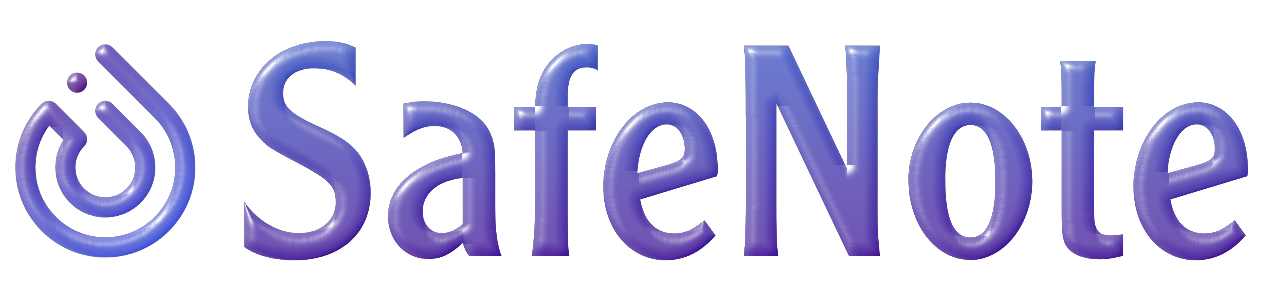
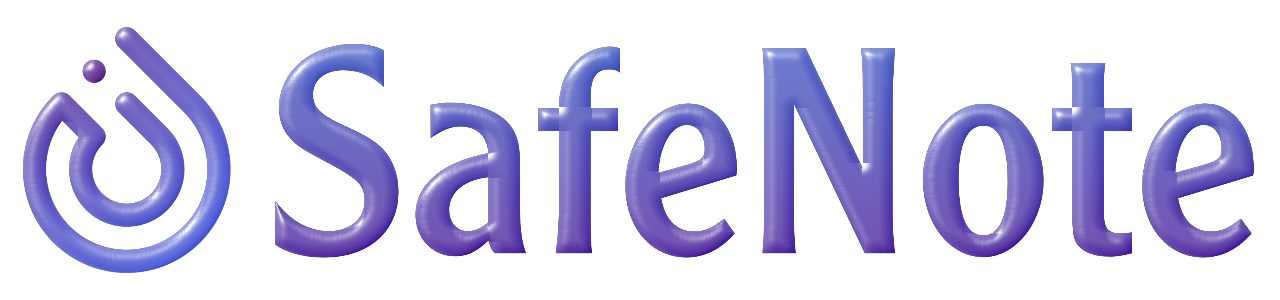
safenote

diff --git a/src/components/Navbar.jsx b/src/components/Navbar.jsx
@@ -10,14 +10,13 @@ const Navbar = () => {
         <div className="flex justify-between items-center">
           <NavLink
             to="/"
-            className="flex items-center gap-2 text-2xl font-bold bg-gradient-to-r from-blue-500 via-purple-600 to-pink-500 bg-clip-text text-transparent"
+            className="flex items-center"
           >
             <img 
-              src="/safenote.png" 
+              src="/wordmark.png" 
               alt="SafeNote Logo" 
-              className="h-8 w-8"
+              className="h-8"
             />
-            SafeNote
           </NavLink>
           <div className="flex items-center gap-6">
             <NavLink
